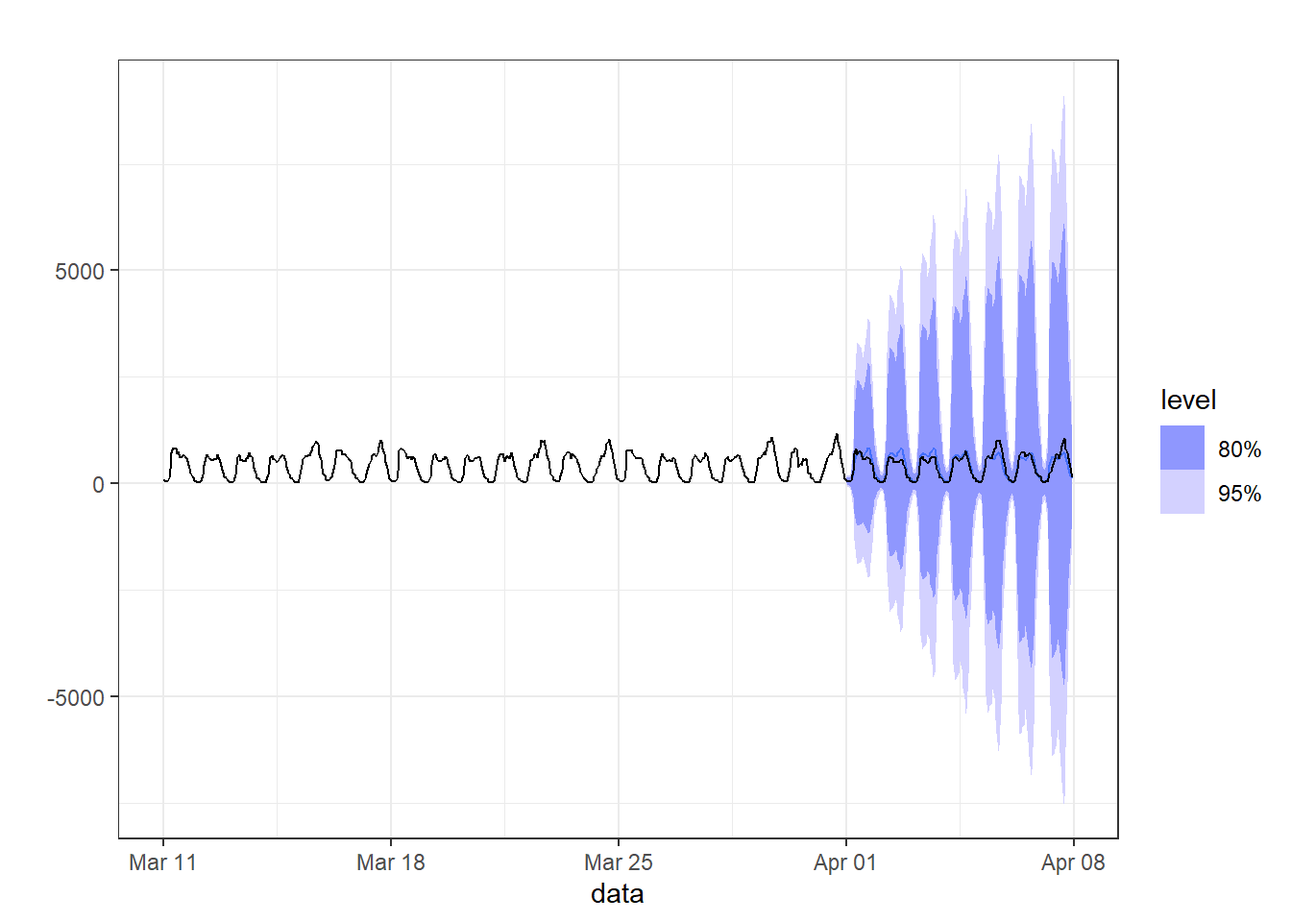
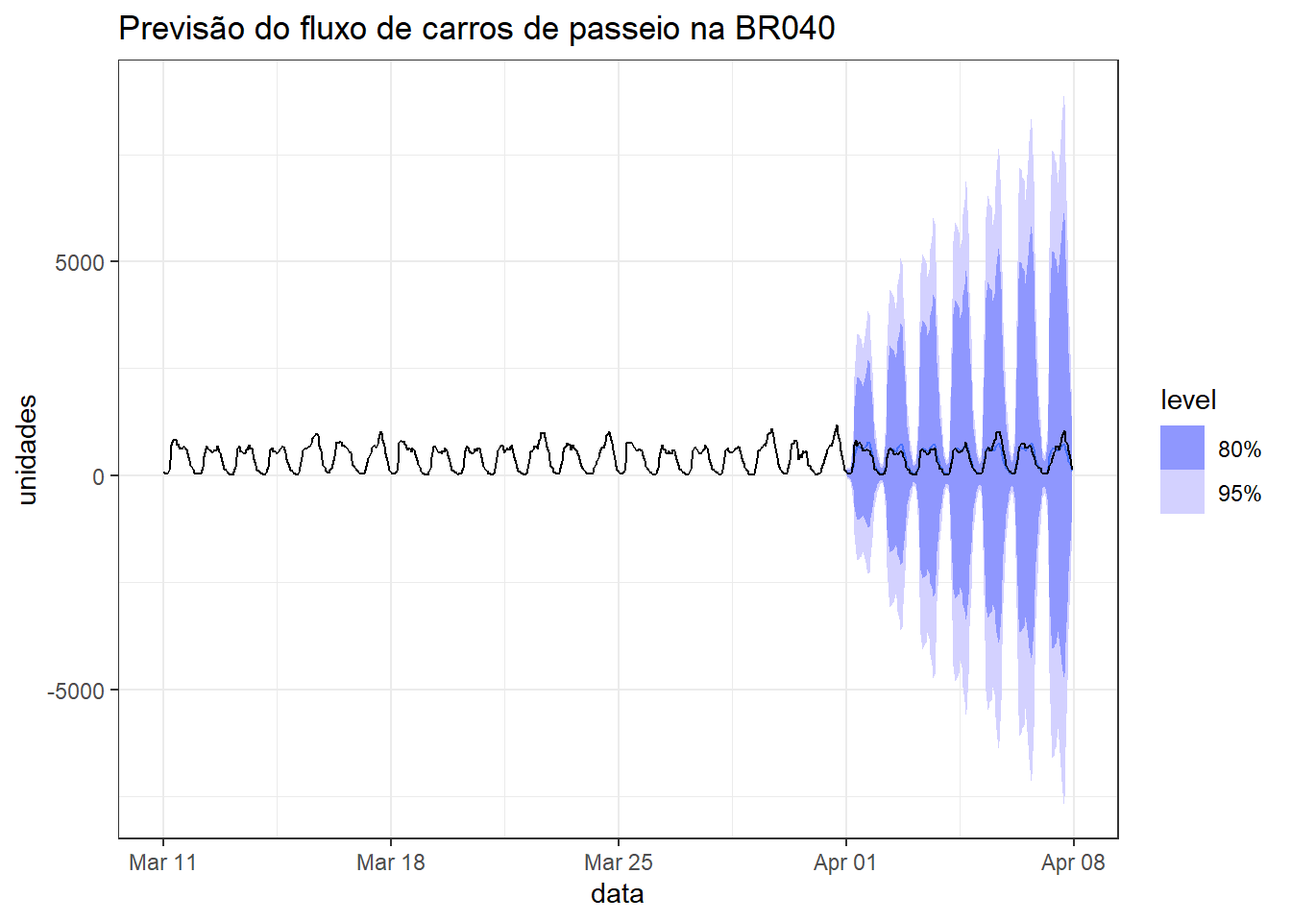
Atualização 17102024

diff --git a/ST1.html b/ST1.html
@@ -195,9 +195,8 @@ pre > code.sourceCode > span > a:first-child::before { text-decoration: underlin
   <li><a href="#séries-temporais-multivariadas" id="toc-séries-temporais-multivariadas" class="nav-link" data-scroll-target="#séries-temporais-multivariadas"><span class="header-section-number">1.2.2</span> Séries temporais multivariadas</a></li>
   <li><a href="#graficos-de-sazonalidade" id="toc-graficos-de-sazonalidade" class="nav-link" data-scroll-target="#graficos-de-sazonalidade"><span class="header-section-number">1.2.3</span> Graficos de sazonalidade</a></li>
   <li><a href="#correlação-entre-séries" id="toc-correlação-entre-séries" class="nav-link" data-scroll-target="#correlação-entre-séries"><span class="header-section-number">1.2.4</span> Correlação entre séries</a></li>
-  <li><a href="#gráficos-de-decomposição-de-séries-temporais" id="toc-gráficos-de-decomposição-de-séries-temporais" class="nav-link" data-scroll-target="#gráficos-de-decomposição-de-séries-temporais"><span class="header-section-number">1.2.5</span> Gráficos de decomposição de séries temporais</a></li>
-  <li><a href="#gráficos-de-decomposição" id="toc-gráficos-de-decomposição" class="nav-link" data-scroll-target="#gráficos-de-decomposição"><span class="header-section-number">1.2.6</span> Gráficos de decomposição</a></li>
-  <li><a href="#gráficos-de-previsão" id="toc-gráficos-de-previsão" class="nav-link" data-scroll-target="#gráficos-de-previsão"><span class="header-section-number">1.2.7</span> Gráficos de previsão</a></li>
+  <li><a href="#gráficos-de-decomposição" id="toc-gráficos-de-decomposição" class="nav-link" data-scroll-target="#gráficos-de-decomposição"><span class="header-section-number">1.2.5</span> Gráficos de decomposição</a></li>
+  <li><a href="#gráficos-de-previsão" id="toc-gráficos-de-previsão" class="nav-link" data-scroll-target="#gráficos-de-previsão"><span class="header-section-number">1.2.6</span> Gráficos de previsão</a></li>
   </ul></li>
   <li><a href="#implementação-em-r" id="toc-implementação-em-r" class="nav-link" data-scroll-target="#implementação-em-r"><span class="header-section-number">1.3</span> Implementação em R</a></li>
   </ul>
@@ -239,7 +238,7 @@ pre > code.sourceCode > span > a:first-child::before { text-decoration: underlin
 <h2 data-number="1.2" class="anchored" data-anchor-id="exemplos-de-séries-e-visualizações"><span class="header-section-number">1.2</span> Exemplos de séries e visualizações</h2>
 <section id="séries-univariadas" class="level3" data-number="1.2.1">
 <h3 data-number="1.2.1" class="anchored" data-anchor-id="séries-univariadas"><span class="header-section-number">1.2.1</span> Séries univariadas</h3>
-<p>Na <a href="#fig-ipca1">Figura&nbsp;<span class="quarto-unresolved-ref">fig-ipca1</span></a> observa-se graficamente a série temporal do índice de preços ao consumidor (IPCA), com frequência mensal a partir de 1980. A série foi obtida em http://www.ipeadata.gov.br. As primeiras observações da série também são exibidas na <a href="#tbl-ipca">Tabela&nbsp;<span class="quarto-unresolved-ref">tbl-ipca</span></a>. Observa-se claramente como a inflação no país foi controlada a partir da adoção do plano real.</p>
+<p>Na <a href="#fig-ipca1">Figura&nbsp;<span>1.1</span></a> observa-se graficamente a série temporal do índice de preços ao consumidor (IPCA), com frequência mensal a partir de 1980. A série foi obtida em http://www.ipeadata.gov.br. As primeiras observações da série também são exibidas na <a href="#tbl-ipca">Tabela&nbsp;<span>1.1</span></a>. Observa-se claramente como a inflação no país foi controlada a partir da adoção do plano real.</p>
 <div class="cell">
 <div class="cell-output-display">
 <div id="tbl-ipca" class="anchored">
@@ -291,7 +290,7 @@ pre > code.sourceCode > span > a:first-child::before { text-decoration: underlin
 </div>
 </div>
 </div>
-<p>Para visualizar melhor como o IPCA variou nos últimos 20 anos, pode-se selecionar os dados a partir do ano 2000. O resultado é plotado na <a href="#fig-ipca2">Figura&nbsp;<span class="quarto-unresolved-ref">fig-ipca2</span></a>.</p>
+<p>Para visualizar melhor como o IPCA variou nos últimos 20 anos, pode-se selecionar os dados a partir do ano 2000. O resultado é plotado na <a href="#fig-ipca2">Figura&nbsp;<span>1.2</span></a>.</p>
 <div class="cell">
 <div class="cell-output-display">
 <div id="fig-ipca2" class="quarto-figure quarto-figure-center anchored">
@@ -302,7 +301,7 @@ pre > code.sourceCode > span > a:first-child::before { text-decoration: underlin
 </div>
 </div>
 </div>
-<p>A <a href="#tbl-carros">Tabela&nbsp;<span class="quarto-unresolved-ref">tbl-carros</span></a> exibe as primeiras observações da série temporal de volume de carros produzidos no Brasil a partir de 1990. A série foi obtida em https://anfavea.com.br/site/edicoes-em-excel/ e apresenta frequência mensal.</p>
+<p>A <a href="#tbl-carros">Tabela&nbsp;<span>1.2</span></a> exibe as primeiras observações da série temporal de volume de carros produzidos no Brasil a partir de 1990. A série foi obtida em https://anfavea.com.br/site/edicoes-em-excel/ e apresenta frequência mensal.</p>
 <div class="cell">
 <div class="cell-output-display">
 <div id="tbl-carros" class="anchored">
@@ -344,7 +343,7 @@ pre > code.sourceCode > span > a:first-child::before { text-decoration: underlin
 </div>
 </div>
 </div>
-<p>A série é plotada na <a href="#fig-carros">Figura&nbsp;<span class="quarto-unresolved-ref">fig-carros</span></a>. Pode-se observar alguns períodos de queda no volume, por exemplo, próximo de 2015 durante a crise política do país e em 2020 durante a pandemia, onde a produção chegou a níveis anteriores aos dos anos 2000.</p>
+<p>A série é plotada na <a href="#fig-carros">Figura&nbsp;<span>1.3</span></a>. Pode-se observar alguns períodos de queda no volume, por exemplo, próximo de 2015 durante a crise política do país e em 2020 durante a pandemia, onde a produção chegou a níveis anteriores aos dos anos 2000.</p>
 <div class="cell">
 <div class="cell-output-display">
 <div id="fig-carros" class="quarto-figure quarto-figure-center anchored">
@@ -358,7 +357,7 @@ pre > code.sourceCode > span > a:first-child::before { text-decoration: underlin
 </section>
 <section id="séries-temporais-multivariadas" class="level3" data-number="1.2.2">
 <h3 data-number="1.2.2" class="anchored" data-anchor-id="séries-temporais-multivariadas"><span class="header-section-number">1.2.2</span> Séries temporais multivariadas</h3>
-<p>Na <a href="#tbl-energia1">Tabela&nbsp;<span class="quarto-unresolved-ref">tbl-energia1</span></a> são exibidas apenas as primeiras observações de séries de produção de quatro tipos de energia para o ano de 2023 no Brasil. Os dados são fornecidos em frequência horária e estão disponíveis em https://dados.ons.org.br/group/programacao-da-operacao.</p>
+<p>Na <a href="#tbl-energia1">Tabela&nbsp;<span>1.3</span></a> são exibidas apenas as primeiras observações de séries de produção de quatro tipos de energia para o ano de 2023 no Brasil. Os dados são fornecidos em frequência horária e estão disponíveis em https://dados.ons.org.br/group/programacao-da-operacao.</p>
 <div class="cell">
 <div class="cell-output-display">
 <div id="tbl-energia1" class="anchored">
@@ -407,7 +406,7 @@ pre > code.sourceCode > span > a:first-child::before { text-decoration: underlin
 </div>
 </div>
 </div>
-<p>A série temporal multivariada é plotada na <a href="#fig-energia1">Figura&nbsp;<span class="quarto-unresolved-ref">fig-energia1</span></a>. Pode-se observar a queda de produção da fonte hidráulica no período mais seco do ano, além da tendência de aumento da energia solar a partir de maio.</p>
+<p>A série temporal multivariada é plotada na <a href="#fig-energia1">Figura&nbsp;<span>1.4</span></a>. Pode-se observar a queda de produção da fonte hidráulica no período mais seco do ano, além da tendência de aumento da energia solar a partir de maio.</p>
 <div class="cell">
 <div class="cell-output-display">
 <div id="fig-energia1" class="quarto-figure quarto-figure-center anchored">
@@ -418,7 +417,7 @@ pre > code.sourceCode > span > a:first-child::before { text-decoration: underlin
 </div>
 </div>
 </div>
-<p>Outro exemplo de série multivariada de índices de produção de bens de capital, de consumo duráveis, intermediários e de consumo não duráveis é plotada na <a href="#fig-bem">Figura&nbsp;<span class="quarto-unresolved-ref">fig-bem</span></a>, porém em painéis separados. A série foi obtida em https://www.ibge.gov.br/estatisticas/economicas/industria/9294-pesquisa-industrial-mensal-producao-fisica-brasil?=&amp;t=series-historicas. Essa visualização é útil, uma vez que possibilita avaliar melhor o padrão e variabilidade de cada série, permitindo ajustar a escala de cada série de forma individual.</p>
+<p>Outro exemplo de série multivariada de índices de produção de bens de capital, de consumo duráveis, intermediários e de consumo não duráveis é plotada na <a href="ST4.html#fig-bem">Figura&nbsp;<span>4.5</span></a>, porém em painéis separados. A série foi obtida em https://www.ibge.gov.br/estatisticas/economicas/industria/9294-pesquisa-industrial-mensal-producao-fisica-brasil?=&amp;t=series-historicas. Essa visualização é útil, uma vez que possibilita avaliar melhor o padrão e variabilidade de cada série, permitindo ajustar a escala de cada série de forma individual.</p>
 <div class="cell">
 <div class="cell-output-display">
 <div id="fig-bem" class="quarto-figure quarto-figure-center anchored">
@@ -429,7 +428,7 @@ pre > code.sourceCode > span > a:first-child::before { text-decoration: underlin
 </div>
 </div>
 </div>
-<p>As últimas observações de mais um exemplo de série temporal multivariada são observadas na <a href="#tbl-tolaju">Tabela&nbsp;<span class="quarto-unresolved-ref">tbl-tolaju</span></a> considerando dados de visualizaçoes de 4 vídeos da playlist Tolerâncias e ajustes do canal da engenharia de manufatura e qualidade.</p>
+<p>As últimas observações de mais um exemplo de série temporal multivariada são observadas na <a href="#tbl-tolaju">Tabela&nbsp;<span>1.4</span></a> considerando dados de visualizaçoes de 4 vídeos da playlist Tolerâncias e ajustes do canal da engenharia de manufatura e qualidade.</p>
 <div class="cell">
 <div class="cell-output-display">
 <div id="tbl-tolaju" class="anchored">
@@ -478,7 +477,7 @@ pre > code.sourceCode > span > a:first-child::before { text-decoration: underlin
 </div>
 </div>
 </div>
-<p>A série multivariada é plotada na <a href="#fig-tolaju">Figura&nbsp;<span class="quarto-unresolved-ref">fig-tolaju</span></a>. A série inicia em 2018, ano de início do canal, porém só tem dados segundo a data de lançamento de cada vídeo.</p>
+<p>A série multivariada é plotada na <a href="#fig-tolaju">Figura&nbsp;<span>1.6</span></a>. A série inicia em 2018, ano de início do canal, porém só tem dados segundo a data de lançamento de cada vídeo.</p>
 <div class="cell">
 <div class="cell-output-display">
 <div id="fig-tolaju" class="quarto-figure quarto-figure-center anchored">
@@ -489,7 +488,7 @@ pre > code.sourceCode > span > a:first-child::before { text-decoration: underlin
 </div>
 </div>
 </div>
-<p>A série do vídeo 4 a partir de setembro de 2018 é exibida na <a href="#fig-tol4">Figura&nbsp;<span class="quarto-unresolved-ref">fig-tol4</span></a>.</p>
+<p>A série do vídeo 4 a partir de setembro de 2018 é exibida na <a href="#fig-tol4">Figura&nbsp;<span>1.7</span></a>.</p>
 <div class="cell">
 <div class="cell-output-display">
 <div id="fig-tol4" class="quarto-figure quarto-figure-center anchored">
@@ -503,7 +502,7 @@ pre > code.sourceCode > span > a:first-child::before { text-decoration: underlin
 </section>
 <section id="graficos-de-sazonalidade" class="level3" data-number="1.2.3">
 <h3 data-number="1.2.3" class="anchored" data-anchor-id="graficos-de-sazonalidade"><span class="header-section-number">1.2.3</span> Graficos de sazonalidade</h3>
-<p>Pode-se visualizar os dados da série do vídeo 4 em subséries anuais, de forma a ver a sazonalidade presente nos dados. A <a href="#fig-saz4">Figura&nbsp;<span class="quarto-unresolved-ref">fig-saz4</span></a> expõe o gráfico. Os dados foram agregados mensalmente. Pode-se visualizar os picos de visualizações de Abril a Junho e de Setembro a Outubro, coincidindo com períodos de picos de estudos nos dois semestres anuais.</p>
+<p>Pode-se visualizar os dados da série do vídeo 4 em subséries anuais, de forma a ver a sazonalidade presente nos dados. A <a href="#fig-saz4">Figura&nbsp;<span>1.8</span></a> expõe o gráfico. Os dados foram agregados mensalmente. Pode-se visualizar os picos de visualizações de Abril a Junho e de Setembro a Outubro, coincidindo com períodos de picos de estudos nos dois semestres anuais.</p>
 <div class="cell">
 <div class="cell-output-display">
 <div id="fig-saz4" class="quarto-figure quarto-figure-center anchored">
@@ -514,7 +513,7 @@ pre > code.sourceCode > span > a:first-child::before { text-decoration: underlin
 </div>
 </div>
 </div>
-<p>Pode-se plotar o gráfico sazonal visualizando a variação anual dentro de cada mês, conforme <a href="#fig-saz4_">Figura&nbsp;<span class="quarto-unresolved-ref">fig-saz4_</span></a>.</p>
+<p>Pode-se plotar o gráfico sazonal visualizando a variação anual dentro de cada mês, conforme <a href="#fig-saz4_">Figura&nbsp;<span>1.9</span></a>.</p>
 <div class="cell">
 <div class="cell-output-display">
 <div id="fig-saz4_" class="quarto-figure quarto-figure-center anchored">
@@ -525,71 +524,68 @@ pre > code.sourceCode > span > a:first-child::before { text-decoration: underlin
 </div>
 </div>
 </div>
-</section>
-<section id="correlação-entre-séries" class="level3" data-number="1.2.4">
-<h3 data-number="1.2.4" class="anchored" data-anchor-id="correlação-entre-séries"><span class="header-section-number">1.2.4</span> Correlação entre séries</h3>
-<p>A <a href="#fig-bens_pairs">Figura&nbsp;<span class="quarto-unresolved-ref">fig-bens_pairs</span></a> exibe diagramas de dispersão e correlações aos pares para a série multivaria de produção de bens exposta na Figura <a href="#fig-bem">Figura&nbsp;<span class="quarto-unresolved-ref">fig-bem</span></a>. Pode-se confirmar a alta relação linear entre tais índices, com correlação linear positiva variando de 0,70 a 0,84.</p>
-<div class="cell">
-<div class="cell-output-display">
-<div id="fig-bens_pairs" class="quarto-figure quarto-figure-center anchored">
-<figure class="figure">
-<p><img src="ST1_files/figure-html/fig-bens_pairs-1.png" class="img-fluid figure-img" width="672"></p>
-<figcaption class="figure-caption">Figura&nbsp;1.10: Bens de consumo duráveis, intermediários e de consumo não duráveis</figcaption>
-</figure>
-</div>
-</div>
-</div>
-</section>
-<section id="gráficos-de-decomposição-de-séries-temporais" class="level3" data-number="1.2.5">
-<h3 data-number="1.2.5" class="anchored" data-anchor-id="gráficos-de-decomposição-de-séries-temporais"><span class="header-section-number">1.2.5</span> Gráficos de decomposição de séries temporais</h3>
-<p>A <a href="#fig-co2">Figura&nbsp;<span class="quarto-unresolved-ref">fig-co2</span></a> apresenta a série temporal de níveis de <span class="math inline">\(CO_2\)</span> na atmosfera medida no Observatório Mauna Loa, Havaí, desde 1958, https://climate.nasa.gov/vital-signs/carbon-dioxide. Observa-se um padrão de crescimento não linear com ciclos sazonais bem definidos.</p>
+<p>A <a href="#fig-co2">Figura&nbsp;<span>1.10</span></a> apresenta a série temporal de níveis de <span class="math inline">\(CO_2\)</span> na atmosfera medida no Observatório Mauna Loa, Havaí, desde 1958, https://climate.nasa.gov/vital-signs/carbon-dioxide. Observa-se um padrão de crescimento não linear com ciclos sazonais bem definidos.</p>
 <div class="cell">
 <div class="cell-output-display">
 <div id="fig-co2" class="quarto-figure quarto-figure-center anchored">
 <figure class="figure">
 <p><img src="ST1_files/figure-html/fig-co2-1.png" class="img-fluid figure-img" width="672"></p>
-<figcaption class="figure-caption">Figura&nbsp;1.11: Emissões de CO2, Observatório Mauna Loa, Havaí</figcaption>
+<figcaption class="figure-caption">Figura&nbsp;1.10: Emissões de CO2, Observatório Mauna Loa, Havaí</figcaption>
 </figure>
 </div>
 </div>
 </div>
-<p>A <a href="#fig-co2_">Figura&nbsp;<span class="quarto-unresolved-ref">fig-co2_</span></a> plota a série a partir de 2020. Pode-se observar que os períodos sazonais de pico coincidem com o início da primavera no hemisfério norte, enquanto os vales são observados no período de crescimento das plantas, as quais capturam parte significativa do <span class="math inline">\(CO_2\)</span> da atmosfera.</p>
+<p>A <a href="#fig-co2_">Figura&nbsp;<span>1.11</span></a> plota a série a partir de 2020. Pode-se observar que os períodos sazonais de pico coincidem com o início da primavera no hemisfério norte, enquanto os vales são observados no período de crescimento das plantas, as quais capturam parte significativa do <span class="math inline">\(CO_2\)</span> da atmosfera.</p>
 <div class="cell">
 <div class="cell-output-display">
 <div id="fig-co2_" class="quarto-figure quarto-figure-center anchored">
 <figure class="figure">
 <p><img src="ST1_files/figure-html/fig-co2_-1.png" class="img-fluid figure-img" width="672"></p>
-<figcaption class="figure-caption">Figura&nbsp;1.12: Emissões de CO2, a partir de 2020</figcaption>
+<figcaption class="figure-caption">Figura&nbsp;1.11: Emissões de CO2, a partir de 2020</figcaption>
 </figure>
 </div>
 </div>
 </div>
-<p>O gráfico sazonal também pode ser útil neste caso, conforme <a href="#fig-co2saz">Figura&nbsp;<span class="quarto-unresolved-ref">fig-co2saz</span></a>. Observa-se claramente a sazonalidade com pico próximo de maio e declínio próximo de outubro. A tendência de aumento anual de emissões também fica clara na escala de cor que, neste caso, considera o ano.</p>
+<p>O gráfico sazonal também pode ser útil neste caso, conforme <a href="#fig-co2saz">Figura&nbsp;<span>1.12</span></a>. Observa-se claramente a sazonalidade com pico próximo de maio e declínio próximo de outubro. A tendência de aumento anual de emissões também fica clara na escala de cor que, neste caso, considera o ano.</p>
 <div class="cell">
 <div class="cell-output-display">
 <div id="fig-co2saz" class="quarto-figure quarto-figure-center anchored">
 <figure class="figure">
 <p><img src="ST1_files/figure-html/fig-co2saz-1.png" class="img-fluid figure-img" width="672"></p>
-<figcaption class="figure-caption">Figura&nbsp;1.13: Gráfico sazonal de Emissões de CO2</figcaption>
+<figcaption class="figure-caption">Figura&nbsp;1.12: Gráfico sazonal de Emissões de CO2</figcaption>
 </figure>
 </div>
 </div>
 </div>
-<p>O gráfico de subséries sazonais, plotado na <a href="#fig-co2_saz_">Figura&nbsp;<span class="quarto-unresolved-ref">fig-co2_saz_</span></a>, também deixa clara a tendência de aumento de emissões desde o início da série, independente do mês e a sazonalidade com pico em maio e vale em outubro.</p>
+<p>O gráfico de subséries sazonais, plotado na <a href="#fig-co2_saz_">Figura&nbsp;<span>1.13</span></a>, também deixa clara a tendência de aumento de emissões desde o início da série, independente do mês e a sazonalidade com pico em maio e vale em outubro.</p>
 <div class="cell">
 <div class="cell-output-display">
 <div id="fig-co2_saz_" class="quarto-figure quarto-figure-center anchored">
 <figure class="figure">
 <p><img src="ST1_files/figure-html/fig-co2_saz_-1.png" class="img-fluid figure-img" width="672"></p>
-<figcaption class="figure-caption">Figura&nbsp;1.14: Gráfico de subséries sazonais: Emissões de CO2</figcaption>
+<figcaption class="figure-caption">Figura&nbsp;1.13: Gráfico de subséries sazonais: Emissões de CO2</figcaption>
 </figure>
 </div>
 </div>
 </div>
 </section>
-<section id="gráficos-de-decomposição" class="level3" data-number="1.2.6">
-<h3 data-number="1.2.6" class="anchored" data-anchor-id="gráficos-de-decomposição"><span class="header-section-number">1.2.6</span> Gráficos de decomposição</h3>
-<p>Existem diversas formas de decompor séries temporais. A <a href="#tbl-co2decomp">Tabela&nbsp;<span class="quarto-unresolved-ref">tbl-co2decomp</span></a> expõe os resultados de uma decomposição aditiva da série CO2. A componente cíclica é removida e o restante é suavizado para encontrar uma tendência. O resíduo consiste na diferença entre a série original e a soma da tendência e da componente sazonal.</p>
+<section id="correlação-entre-séries" class="level3" data-number="1.2.4">
+<h3 data-number="1.2.4" class="anchored" data-anchor-id="correlação-entre-séries"><span class="header-section-number">1.2.4</span> Correlação entre séries</h3>
+<p>A <a href="ST4.html#fig-bens_pairs">Figura&nbsp;<span>4.6</span></a> exibe diagramas de dispersão e correlações aos pares para a série multivaria de produção de bens exposta na Figura <a href="ST4.html#fig-bem">Figura&nbsp;<span>4.5</span></a>. Pode-se confirmar a alta relação linear entre tais índices, com correlação linear positiva variando de 0,70 a 0,84.</p>
+<div class="cell">
+<div class="cell-output-display">
+<div id="fig-bens_pairs" class="quarto-figure quarto-figure-center anchored">
+<figure class="figure">
+<p><img src="ST1_files/figure-html/fig-bens_pairs-1.png" class="img-fluid figure-img" width="672"></p>
+<figcaption class="figure-caption">Figura&nbsp;1.14: Bens de consumo duráveis, intermediários e de consumo não duráveis</figcaption>
+</figure>
+</div>
+</div>
+</div>
+</section>
+<section id="gráficos-de-decomposição" class="level3" data-number="1.2.5">
+<h3 data-number="1.2.5" class="anchored" data-anchor-id="gráficos-de-decomposição"><span class="header-section-number">1.2.5</span> Gráficos de decomposição</h3>
+<p>Existem diversas formas de decompor séries temporais. A <a href="#tbl-co2decomp">Tabela&nbsp;<span>1.5</span></a> expõe os resultados de uma decomposição aditiva da série CO2. A componente cíclica é removida e o restante é suavizado para encontrar uma tendência. O resíduo consiste na diferença entre a série original e a soma da tendência e da componente sazonal.</p>
 <div class="cell">
 <div class="cell-output-display">
 <div id="tbl-co2decomp" class="anchored">
@@ -652,7 +648,7 @@ pre > code.sourceCode > span > a:first-child::before { text-decoration: underlin
 </div>
 </div>
 </div>
-<p>A <a href="#fig-co2decomp">Figura&nbsp;<span class="quarto-unresolved-ref">fig-co2decomp</span></a> expõe o resultado da decomposição da série de emissões de CO2. Observa-se claramente a separação da tendência e do padrão sazonal da série, facilitando a interpretação desta.</p>
+<p>A <a href="#fig-co2decomp">Figura&nbsp;<span>1.15</span></a> expõe o resultado da decomposição da série de emissões de CO2. Observa-se claramente a separação da tendência e do padrão sazonal da série, facilitando a interpretação desta.</p>
 <div class="cell">
 <div class="cell-output-display">
 <div id="fig-co2decomp" class="quarto-figure quarto-figure-center anchored">
@@ -664,9 +660,9 @@ pre > code.sourceCode > span > a:first-child::before { text-decoration: underlin
 </div>
 </div>
 </section>
-<section id="gráficos-de-previsão" class="level3" data-number="1.2.7">
-<h3 data-number="1.2.7" class="anchored" data-anchor-id="gráficos-de-previsão"><span class="header-section-number">1.2.7</span> Gráficos de previsão</h3>
-<p>A Figura <a href="#fig-temp_pred_">Figura&nbsp;<span class="quarto-unresolved-ref">fig-temp_pred_</span></a> exibe a série de temperatura instantânea na cidade de São joão del-Rei dos dias 15 a 28 de maio. Os dados foram obtidos em https://tempo.inmet.gov.br/TabelaEstacoes/A001. Observa-se que a série plotada em cor preta exibe comportamento cíclico dado a variação diária entre a temperatura mínima, que varia de 8 a 13 ºC, e a máxima diárias, que gira em torno de 25 a 28 ºC no período. Também é possível observar uma tendência de aumento na temperatura nos dias considerados. A Figura expõe a previsão para dois dias à frente em azul, com intervalos de confiança de 80 a 90%.</p>
+<section id="gráficos-de-previsão" class="level3" data-number="1.2.6">
+<h3 data-number="1.2.6" class="anchored" data-anchor-id="gráficos-de-previsão"><span class="header-section-number">1.2.6</span> Gráficos de previsão</h3>
+<p>A Figura <a href="ST4.html#fig-temp_pred_">Figura&nbsp;<span>4.16</span></a> exibe a série de temperatura instantânea na cidade de São joão del-Rei dos dias 15 a 28 de maio. Os dados foram obtidos em https://tempo.inmet.gov.br/TabelaEstacoes/A001. Observa-se que a série plotada em cor preta exibe comportamento cíclico dado a variação diária entre a temperatura mínima, que varia de 8 a 13 ºC, e a máxima diárias, que gira em torno de 25 a 28 ºC no período. Também é possível observar uma tendência de aumento na temperatura nos dias considerados. A Figura expõe a previsão para dois dias à frente em azul, com intervalos de confiança de 80 a 90%.</p>
 <div class="cell">
 <div class="cell-output-display">
 <div id="fig-temp_pred_" class="quarto-figure quarto-figure-center anchored">

diff --git a/ST5.html b/ST5.html
@@ -694,7 +694,7 @@ s_t &amp;= s_{t-m} + \gamma(l_{t-1} + b_{t-1} + s_{t-m} ) \varepsilon_t\\
 <div id="fig-br040km579_pred" class="quarto-figure quarto-figure-center anchored">
 <figure class="figure">
 <p><img src="ST5_files/figure-html/fig-br040km579_pred-1.png" class="img-fluid figure-img" width="672"></p>
-<figcaption class="figure-caption">Figura&nbsp;5.14: Gráfico sazonal diário do fluxo de carros de passeio na BR040 no kilômetro 579 de 01/03 a 07/04/2019</figcaption>
+<figcaption class="figure-caption">Figura&nbsp;5.14: Previsão do fluxo de carros de passeio na BR040 no kilômetro 579 para a primeira semana de abril</figcaption>
 </figure>
 </div>
 </div>
